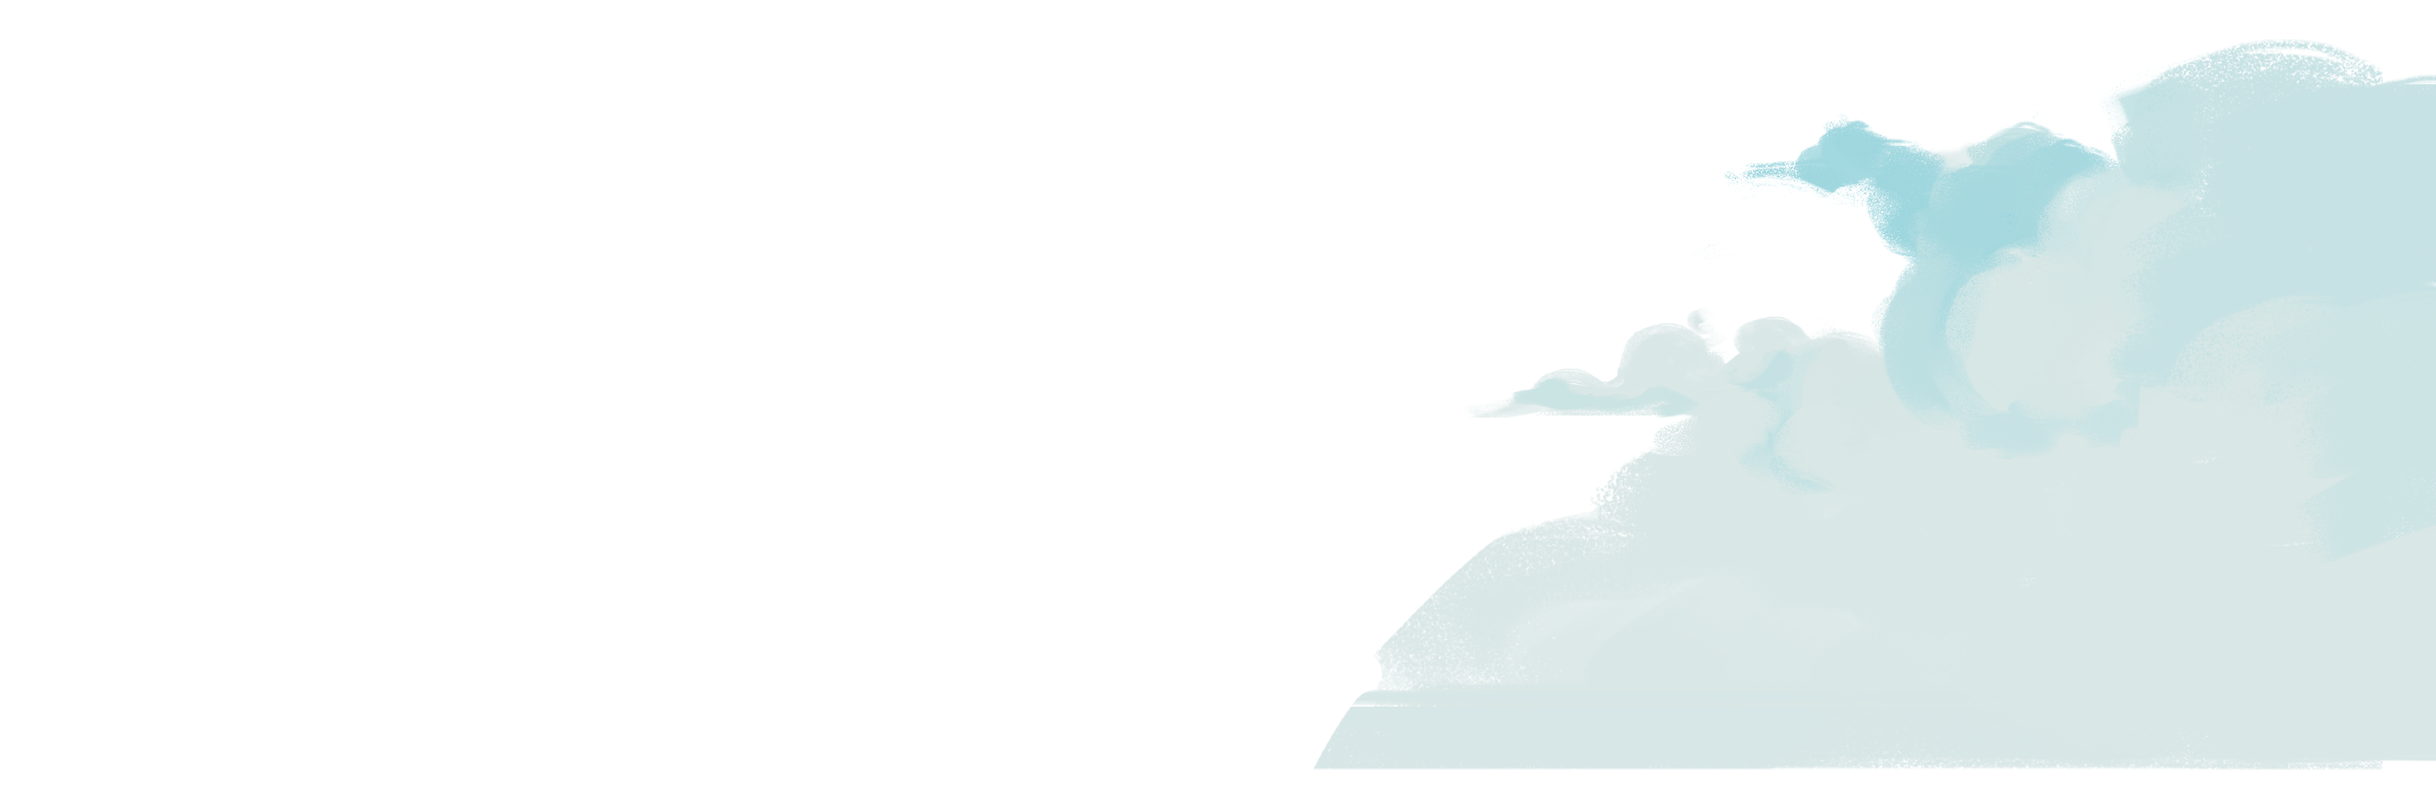
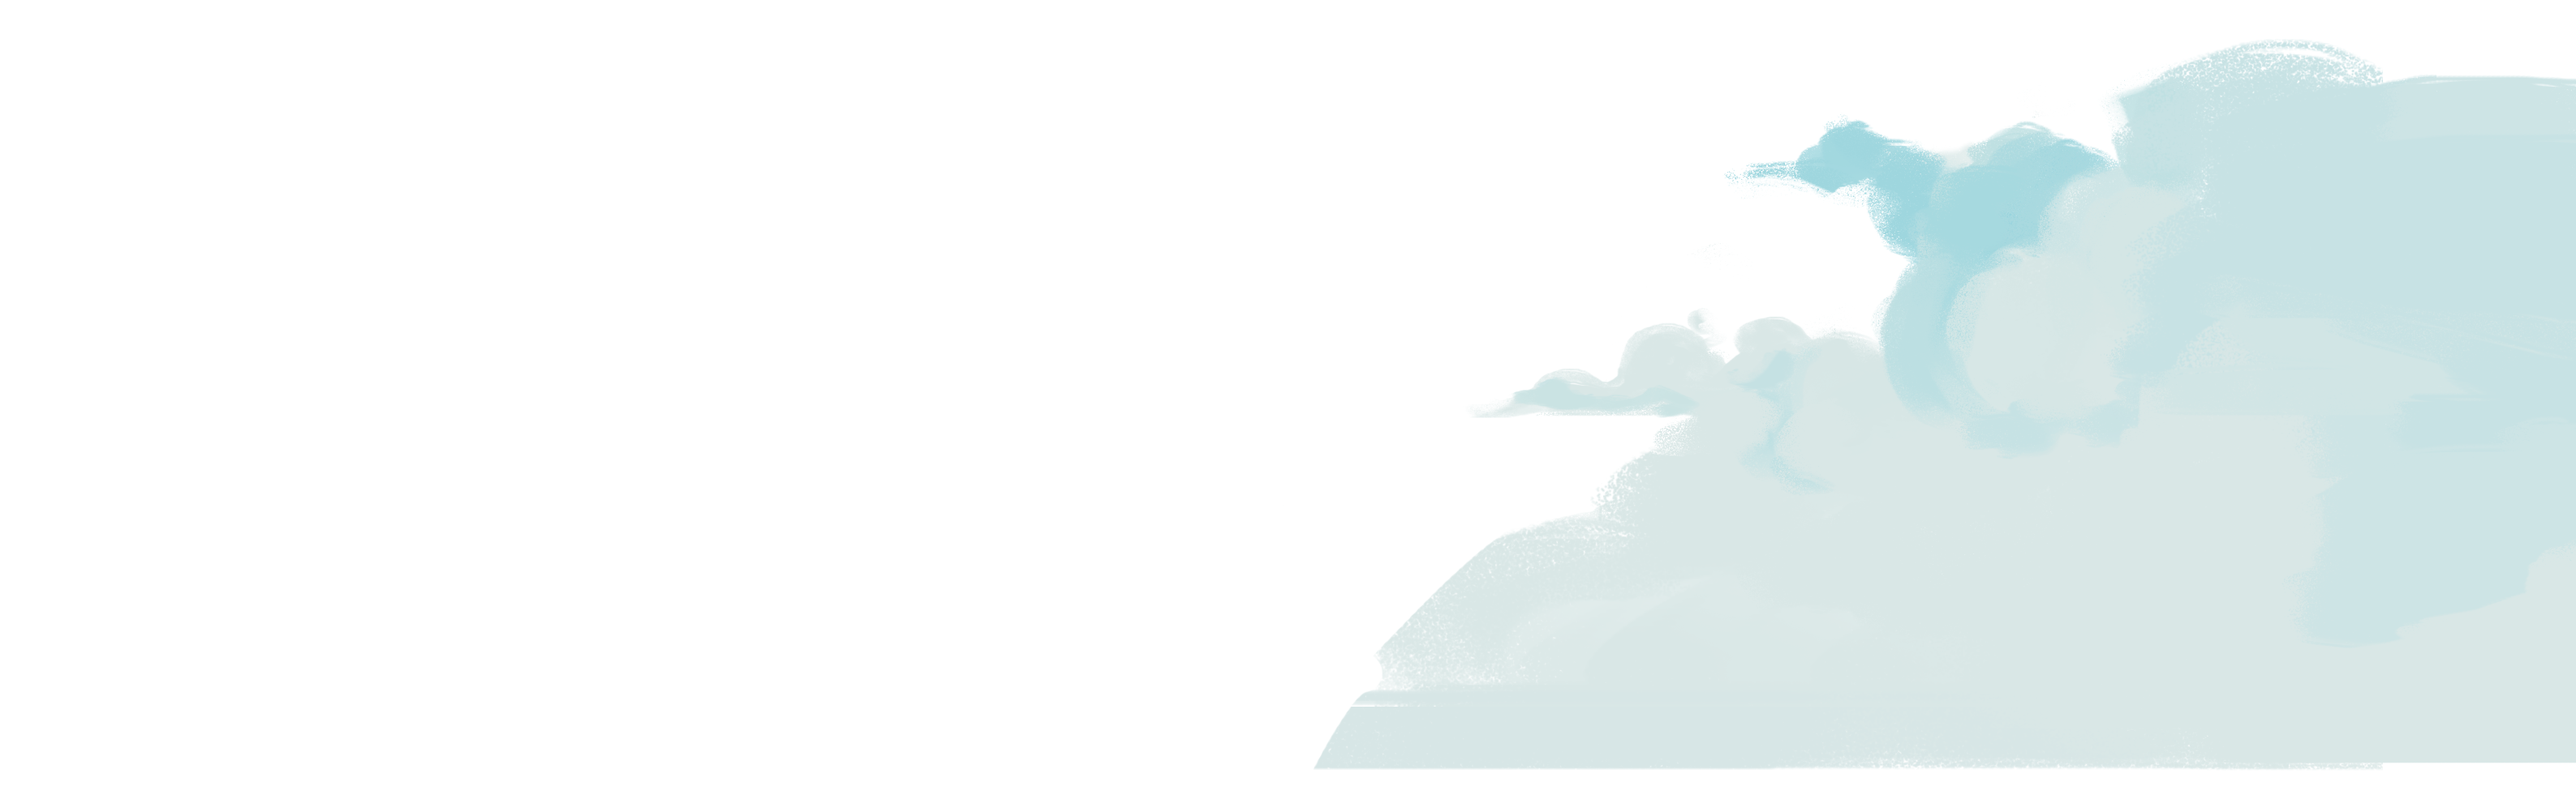
NavBar Mobile Complete and Added Size of Clouds and Grass

Changed region(s): [[0.5884, 0.0304, 1.0, 0.5172], [0.4955, 0.5172, 0.7123, 0.9736], [0.9291, 0.9432, 0.96, 0.9736]]

diff --git a/app/(pages)/_components/Navbar/Navbar.tsx b/app/(pages)/_components/Navbar/Navbar.tsx
@@ -16,7 +16,6 @@ export default function Navbar({ navLinks }: { navLinks: NavLink[] }) {
   useEffect(() => {
     const handleScroll = () => {
       const currentScrollY = window.scrollY;
-      console.log(currentScrollY, lastScrollY.current, direction, atTop);
       if (currentScrollY < 100) {
         setAtTop(true);
         setDirection('down');
@@ -37,6 +36,21 @@ export default function Navbar({ navLinks }: { navLinks: NavLink[] }) {
     };
   }, [direction, atTop]);
 
+  useEffect(() => {
+    const disableScroll = (e: Event) => {
+      if (active) {
+        e.preventDefault();
+      }
+    };
+
+    window.addEventListener('wheel', disableScroll, { passive: false });
+    window.addEventListener('touchmove', disableScroll, { passive: false });
+
+    return () => {
+      window.removeEventListener('wheel', disableScroll);
+    };
+  }, [active]);
+
   return (
     <div
       className={`${styles.container} ${
@@ -46,6 +60,7 @@ export default function Navbar({ navLinks }: { navLinks: NavLink[] }) {
           ? styles.container_sticky
           : ''
       } ${!atTop && direction === 'down' ? styles.container_return_up : ''}
+      ${active ? styles.container_active : ''}
     `}
     >
       <nav className={`${styles.nav}`}>
@@ -59,13 +74,15 @@ export default function Navbar({ navLinks }: { navLinks: NavLink[] }) {
         </div>
         <ul className={`${styles.words} ${active ? styles.words_active : ''}`}>
           <li>
-            <Image
-              src="/navbar/logo.svg"
-              alt="logo"
-              width={100}
-              height={100}
-              className={`${styles.logo} ${active ? styles.logo_active : ''}`}
-            ></Image>
+            <Link href="/#landing" onClick={setInactive}>
+              <Image
+                src="/navbar/logo.svg"
+                alt="logo"
+                width={100}
+                height={100}
+                className={`${styles.logo} ${active ? styles.logo_active : ''}`}
+              ></Image>
+            </Link>
           </li>
           {navLinks.map((link) => (
             <li key={link.name} className={styles.wordsItem}>

diff --git a/app/(pages)/_components/Navbar/Navbar.module.scss b/app/(pages)/_components/Navbar/Navbar.module.scss
@@ -105,14 +105,17 @@ $mobile-breakpoint: 425px;
 }
 
 @media (max-width: $mobile-breakpoint) {
+    .container{
+        &_active{
+            background-color: $bg-color;
+            // height: 50vh;
+        }
+    }
     .nav{
         display: flex;
         flex-direction: column;
         padding-top: 0;
 
-        &_sticky{
-            padding-top: 0;
-        }
     }
     .navLink{
         display: none; // Hide the links by default on mobile
@@ -120,7 +123,7 @@ $mobile-breakpoint: 425px;
             display: flex; // Show the links when active
             flex-direction: column;
             width: 100%;
-            height: 300px;
+            // height: 300px;
         }
     }
 
@@ -150,23 +153,23 @@ $mobile-breakpoint: 425px;
         &_active{
             display: flex ;
             flex-direction: column !important; 
-
-            justify-content: center; 
             align-items: center; 
             width: 100%; 
             position: fixed; 
-            top: 0; 
+            top:0; 
             left: 0;
-            right: 0;
             z-index: 1000; 
             background-color: $bg-color; 
-            height: 100vh; 
             animation: expand 0.3s ease-in-out forwards;
         }
     }
+    .logo_active{
+        margin-top: 30px; //Adjust margin to the top
+        margin-bottom: 30px; //Adjust margin from the words
+    }
+
     .wordsItem{
-        // border: 1px solid red; 
-        height: 80px;
+        height: 40px; //adjust gap between words
     }
 
     .mlhBadge{
@@ -189,7 +192,7 @@ $mobile-breakpoint: 425px;
     }
     to {
     //   width: 100%;
-      height: 100%;
+      height: 40%;
     }
   }
 

diff --git a/app/(pages)/(index-page)/_components/Foreground/Foreground.module.scss b/app/(pages)/(index-page)/_components/Foreground/Foreground.module.scss
@@ -19,7 +19,6 @@ $tablet-breakpoint: 1007px;
         overflow: hidden;
         z-index: 15;
         
-        
         &_image{
             object-fit: contain;
             width: 100%;
@@ -68,8 +67,8 @@ $tablet-breakpoint: 1007px;
             } 
             &_rabbit{
                 // border: 1px solid black;
-                margin-left: -25%;
-                margin-top: -8%;
+                margin-left: -28%;
+                margin-top: -16%;
                 z-index: 0;
                 &_image{
                     object-fit: contain;
@@ -147,15 +146,13 @@ $tablet-breakpoint: 1007px;
 @media (max-width: $mobile-breakpoint) {
     .foreground{
         &_characters{
+            // border: 1px solid red;
+            left: 13%;
             &_behind{
                 position: absolute;
                 top: -10%;
                 left: -50%;
                 // border: 1px solid red;
-            }
-            &_front{
-                // border: 1px solid red;
-                margin-right: 10%;
             }
         } 
         

diff --git a/app/(pages)/(index-page)/_components/Clouds/Clouds.module.scss b/app/(pages)/(index-page)/_components/Clouds/Clouds.module.scss
@@ -38,8 +38,9 @@ $tablet-breakpoint: 1007px;
 .cloud_front{
     display: flex;
     position: absolute;
-    width: 100%;
+    width: 110%;
     overflow: hidden;
+    // border: 2px solid black; 
 
     &_left{
         object-fit: contain;
@@ -81,7 +82,7 @@ $tablet-breakpoint: 1007px;
         min-width: $tablet-breakpoint;
     }
     .cloud_front{
-        min-width: $tablet-breakpoint;
+        min-width: calc($tablet-breakpoint * 1.1);
     }
 }
 
@@ -117,13 +118,13 @@ $tablet-breakpoint: 1007px;
 
  @keyframes floatSideToSide{
     0%{
-        transform: translateX(-10px);
+        transform: translateX(-20px);
     }
     50%{
-        transform: translateX(10px);
+        transform: translateX(20px);
     }
     100%{
-        transform: translateX(-10px);
+        transform: translateX(-20px);
     }
  }
  

diff --git a/app/(pages)/(index-page)/_components/Form/Form.module.scss b/app/(pages)/(index-page)/_components/Form/Form.module.scss
@@ -68,7 +68,7 @@ flex-direction: column;
         font-family: "Proxima Nova", sans-serif;
         font-size: 1.5vw;
         font-style: normal;
-        font-weight: 700;
+        font-weight: 600;
         line-height: 150%;
         letter-spacing: 0.64px;
       }
@@ -157,7 +157,7 @@ gap: 16px;
     background: rgba(255, 255, 255, 0.75);
     backdrop-filter: blur(2px);
     transition: background-color 0.2s ease;
-    opacity: 0.75;
+    opacity: 0.85;
 
     &:hover{
       // background: rgba(234, 224, 224, 0.75);
@@ -183,7 +183,7 @@ gap: 16px;
     gap: 1.5vw;
 
     span{
-      color: var(--teal-1, #005271);
+      color: var(--teal-2, #173A52);
       text-align: center;
       font-family: "Proxima Nova", sans-serif;
       font-size: 1vw;

diff --git a/app/(pages)/_globals/globals.scss b/app/(pages)/_globals/globals.scss
@@ -93,3 +93,4 @@ h4 {
 p {
     font-size: 1rem;
 }
+
